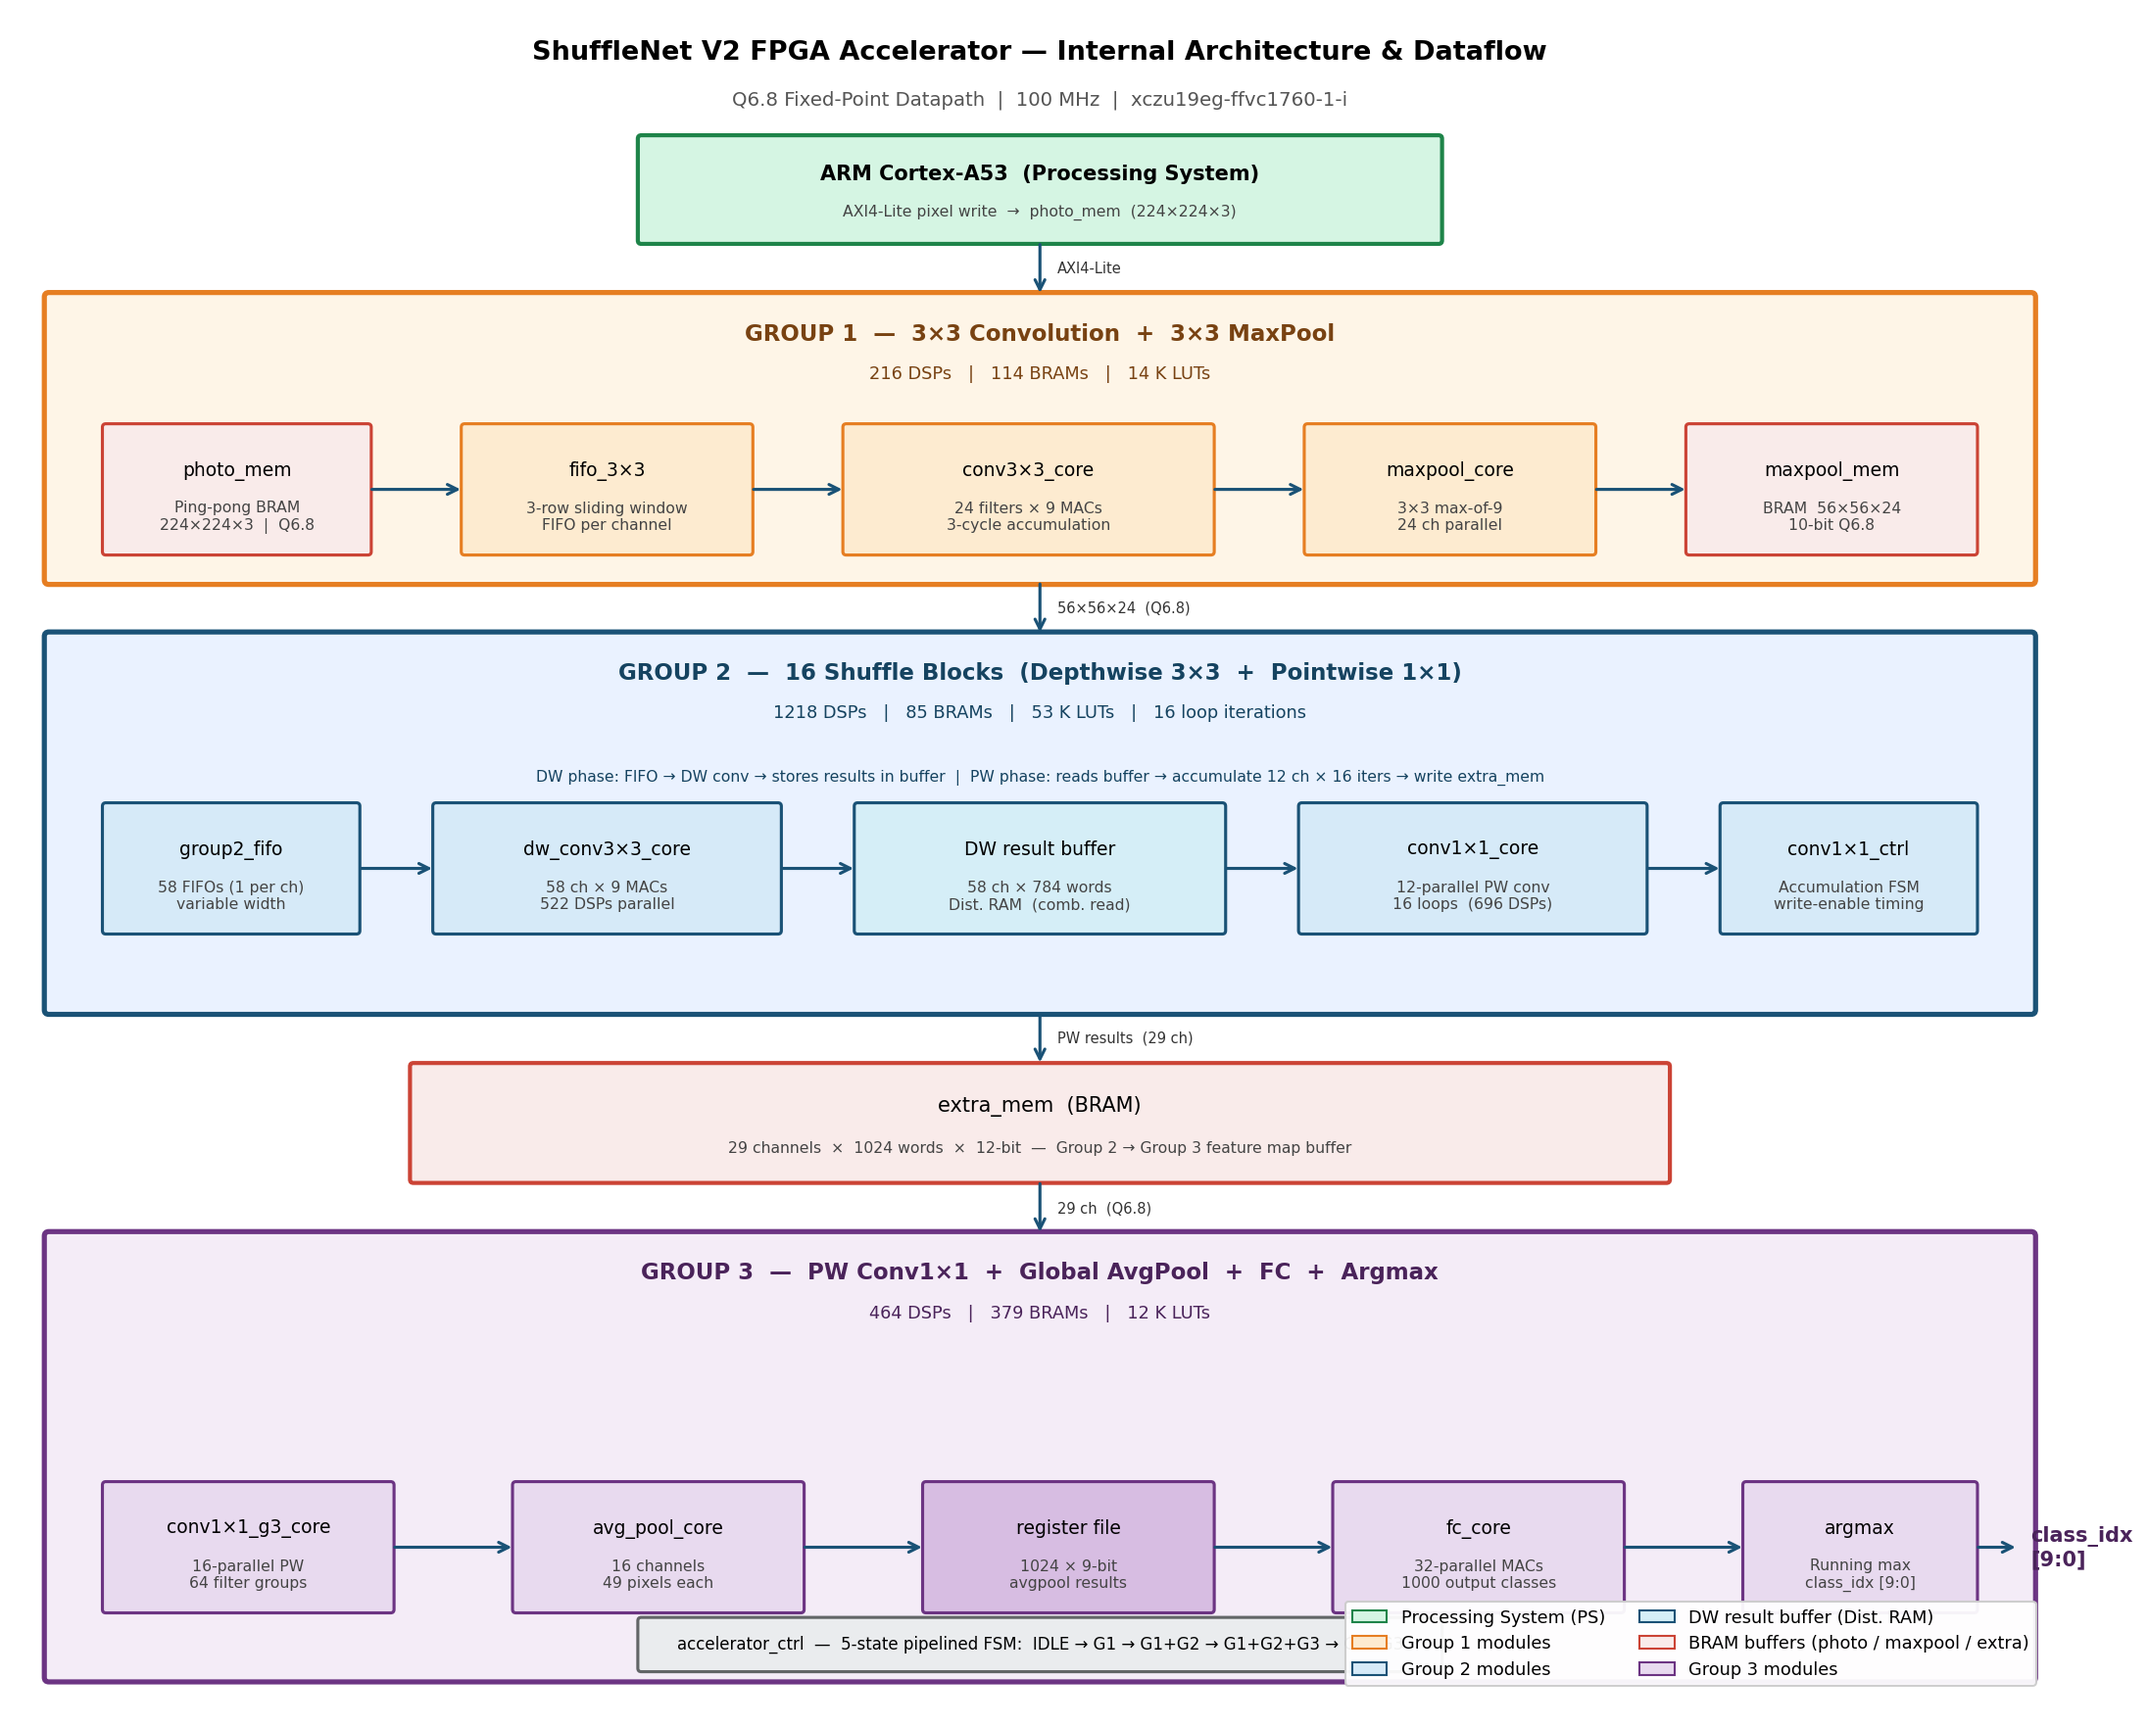
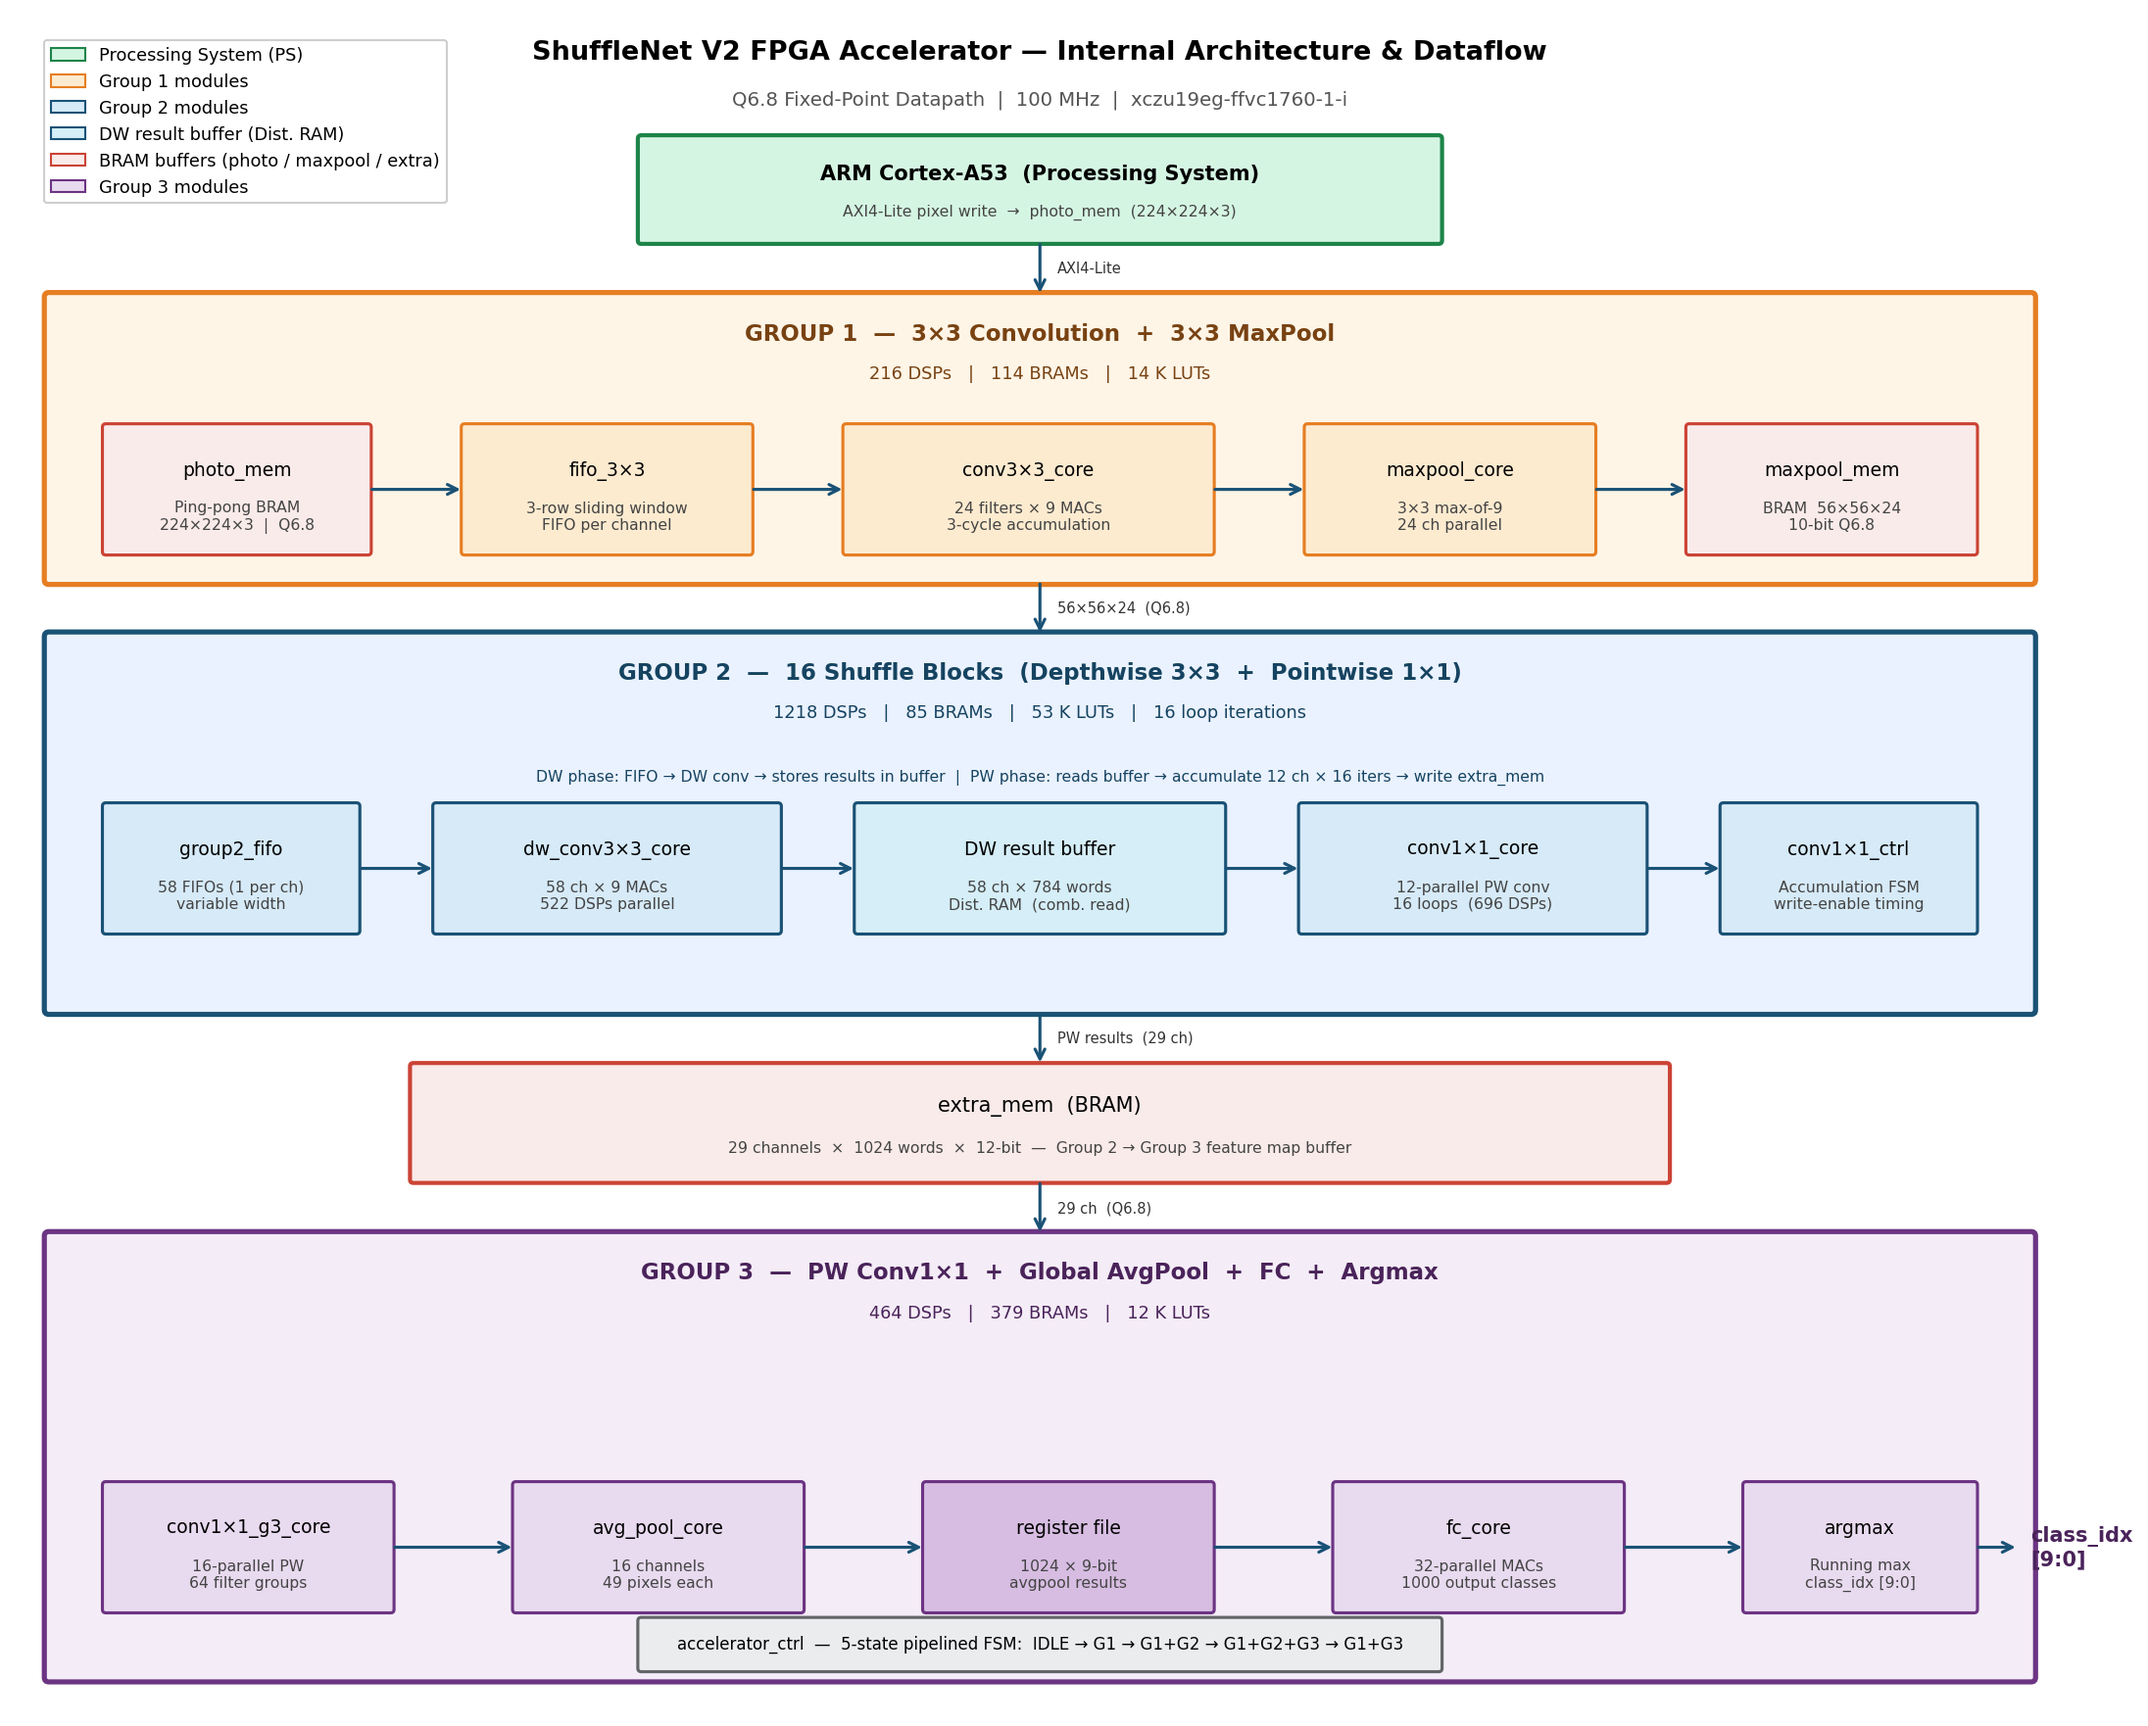
Move legend to upper-left to avoid overlapping GROUP 3 frame

Changed region(s): [[0.6204, 0.9052, 0.9307, 0.9989], [0.0, 0.0312, 0.1551, 0.1249], [0.9307, 0.9364, 0.9617, 0.9677]]

diff --git a/docs/gen_diagrams.py b/docs/gen_diagrams.py
@@ -346,8 +346,8 @@ items = [
     mpatches.Patch(fc='#F9EBEA', ec='#CB4335', label='BRAM buffers (photo / maxpool / extra)'),
     mpatches.Patch(fc='#E8DAEF', ec='#6C3483', label='Group 3 modules'),
 ]
-ax.legend(handles=items, loc='lower right', fontsize=8.5,
-          framealpha=0.95, ncol=2, bbox_to_anchor=(0.99, 0.01))
+ax.legend(handles=items, loc='upper left', fontsize=8.5,
+          framealpha=0.95, ncol=1, bbox_to_anchor=(0.01, 0.99))
 
 plt.savefig('accelerator_diagram.png', dpi=150, bbox_inches='tight', facecolor='white')
 plt.close()
